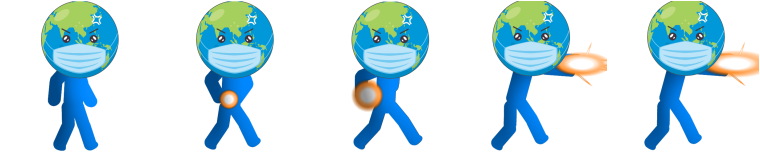
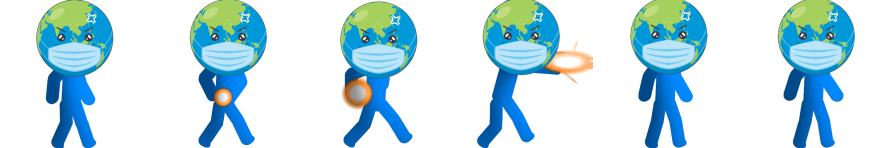
spritesheet teST

diff --git a/js/champions.js b/js/champions.js
@@ -17,10 +17,10 @@ class Champion {
     constructor(x, y) {
         this.x = x;
         this.y = y;
-        // this.width = constants.cellSize - constants.cellGap * 2;
-        // this.height = constants.cellSize - constants.cellGap * 2;
-        this.width = 150;
-        this.height = 150;
+        this.width = constants.cellSize - constants.cellGap * 2;
+        this.height = constants.cellSize - constants.cellGap * 2;
+        // this.width = 150;
+        // this.height = 150;
         this.shooting = false;
         this.shootNow = false;
         this.health = 100;
@@ -67,7 +67,7 @@ class Champion {
     }
 
     update() {
-        if (constants.frame % 10 === 0) {
+        if (constants.frame % 25 === 0) {
             if (this.frameX < this.maxFrame) this.frameX++;
             else this.frameX = this.minFrame;
             if (this.frameX === 1) this.shootNow = true;
@@ -77,10 +77,10 @@ class Champion {
         // if champion sprite sheet has different frames, use if elif to adjust
         if (this.shooting) {
             this.minFrame = 0;
-            this.maxFrame = 4;
+            this.maxFrame = 3;
         } else {
-            this.minFrame = 0;
-            this.maxFrame = 1;
+            this.minFrame = 4;
+            this.maxFrame = 5;
         }
 
         if (this.shooting && this.shootNow) {

diff --git a/README.md b/README.md
@@ -8,3 +8,4 @@
 
 - change every function from "handlexyz" to "updatechampionframe"
 
+- if in idle, slower update frame
